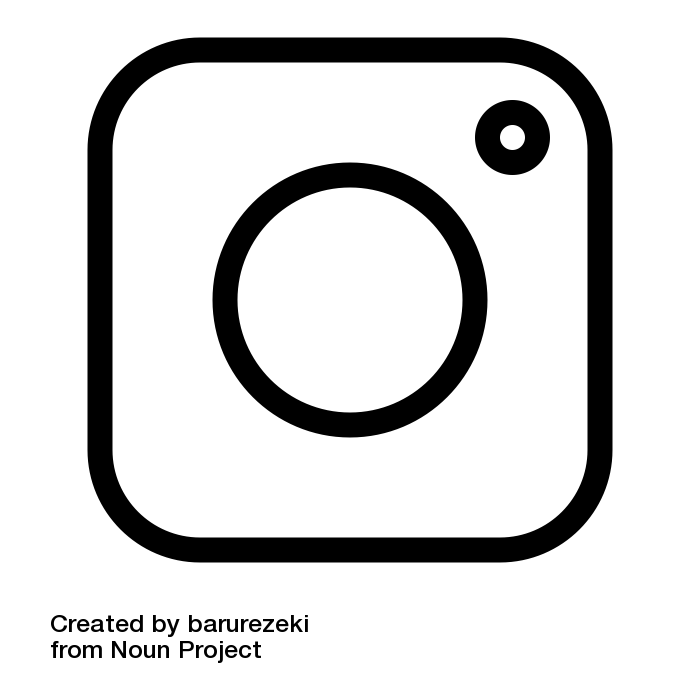
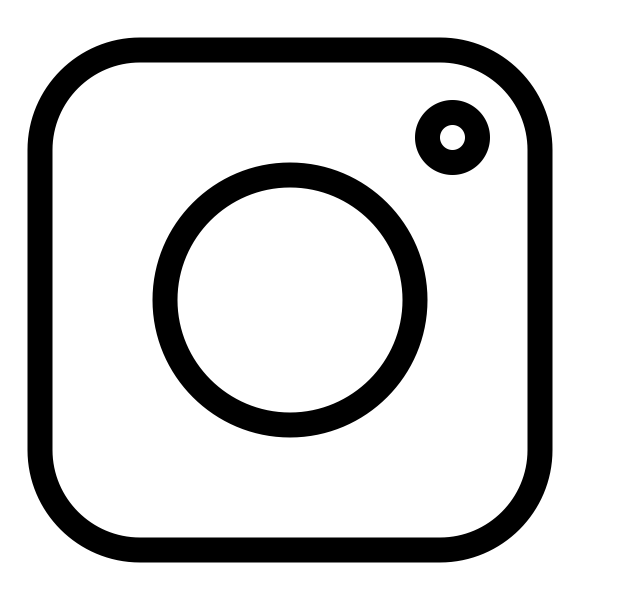
improving mobile website performance

Changed region(s): [[0.0312, 0.0302, 0.875, 0.9648]]

diff --git a/html/about.html b/html/about.html
@@ -24,10 +24,10 @@
                         <h2 class="sub-title">JAX Art</h2>
                         <nav class="contact-content">
                             <a href="//www.instagram.com/jackc.baylor"><img class="instagram"
-                                    src="../icons/noun-camera-5972018.webp" width="20" height="20"
+                                    src="../icons/noun-camera-5972018.webp" width="20" height="18"
                                     alt="Follow me on Instagram"></a>
                             <a href="//www.youtube.com/@jackbaylor1926"><img class="youtube"
-                                    src="../icons/noun-video-player-10681.webp" width="20" height="20"
+                                    src="../icons/noun-video-player-10681.webp" width="20" height="18"
                                     alt="Follow me on YouTube"></a>
                             <a href="//vsco.co/jack-c-baylor"><img class="vsco" src="../icons/icons8-vsco-50.webp"
                                     width="20" height="20" alt="Follow me on VSCO"></a>

diff --git a/html/contact.html b/html/contact.html
@@ -23,10 +23,10 @@
                         <h2 class="sub-title">JAX Art</h2>
                         <nav class="contact-content">
                             <a href="//www.instagram.com/jackc.baylor"><img class="instagram"
-                                    src="../icons/noun-camera-5972018.webp" width="20" height="20"
+                                    src="../icons/noun-camera-5972018.webp" width="20" height="18"
                                     alt="Follow me on Instagram"></a>
                             <a href="//www.youtube.com/@jackbaylor1926"><img class="youtube"
-                                    src="../icons/noun-video-player-10681.webp" width="20" height="20"
+                                    src="../icons/noun-video-player-10681.webp" width="20" height="18"
                                     alt="Follow me on YouTube"></a>
                             <a href="//vsco.co/jack-c-baylor"><img class="vsco" src="../icons/icons8-vsco-50.webp"
                                     width="20" height="20" alt="Follow me on VSCO"></a>

diff --git a/html/gallery.html b/html/gallery.html
@@ -24,10 +24,10 @@
                         <h2 class="sub-title">JAX Art</h2>
                         <nav class="contact-content">
                             <a href="//www.instagram.com/jackc.baylor"><img class="instagram"
-                                    src="../icons/noun-camera-5972018.webp" width="20" height="20"
+                                    src="../icons/noun-camera-5972018.webp" width="20" height="18"
                                     alt="Follow me on Instagram"></a>
                             <a href="//www.youtube.com/@jackbaylor1926"><img class="youtube"
-                                    src="../icons/noun-video-player-10681.webp" width="20" height="20"
+                                    src="../icons/noun-video-player-10681.webp" width="20" height="18"
                                     alt="Follow me on YouTube"></a>
                             <a href="//vsco.co/jack-c-baylor"><img class="vsco" src="../icons/icons8-vsco-50.webp"
                                     width="20" height="20" alt="Follow me on VSCO"></a>

diff --git a/index.html b/index.html
@@ -25,10 +25,10 @@
                         <h2 class="sub-title">JAX Art</h2>
                         <nav class="contact-content">
                             <a href="//www.instagram.com/jackc.baylor"><img class="instagram"
-                                    src="icons/noun-camera-5972018.webp" width="20" height="20"
+                                    src="icons/noun-camera-5972018.webp" width="20" height="18"
                                     alt="Follow me on Instagram"></a>
                             <a href="//www.youtube.com/@jackbaylor1926"><img class="youtube"
-                                    src="icons/noun-video-player-10681.webp" width="20" height="20"
+                                    src="icons/noun-video-player-10681.webp" width="20" height="18"
                                     alt="Follow me on YouTube"></a>
                             <a href="//vsco.co/jack-c-baylor"><img class="vsco" src="icons/icons8-vsco-50.webp"
                                     width="20" height="20" alt="Follow me on VSCO"></a>

diff --git a/styles/styles.css b/styles/styles.css
@@ -98,17 +98,20 @@ header {
 }
 
 .instagram {
-  height: 20px;
+  height: 18px;
+  width: 20px;
   filter: invert(75%);
 }
 
 .youtube {
-  height: 20px;
+  height: 18px;
+  width: 20px;
   filter: invert(75%);
 }
 
 .vsco {
   height: 20px;
+  width: 20px;
   filter: invert(75%);
 }
 
